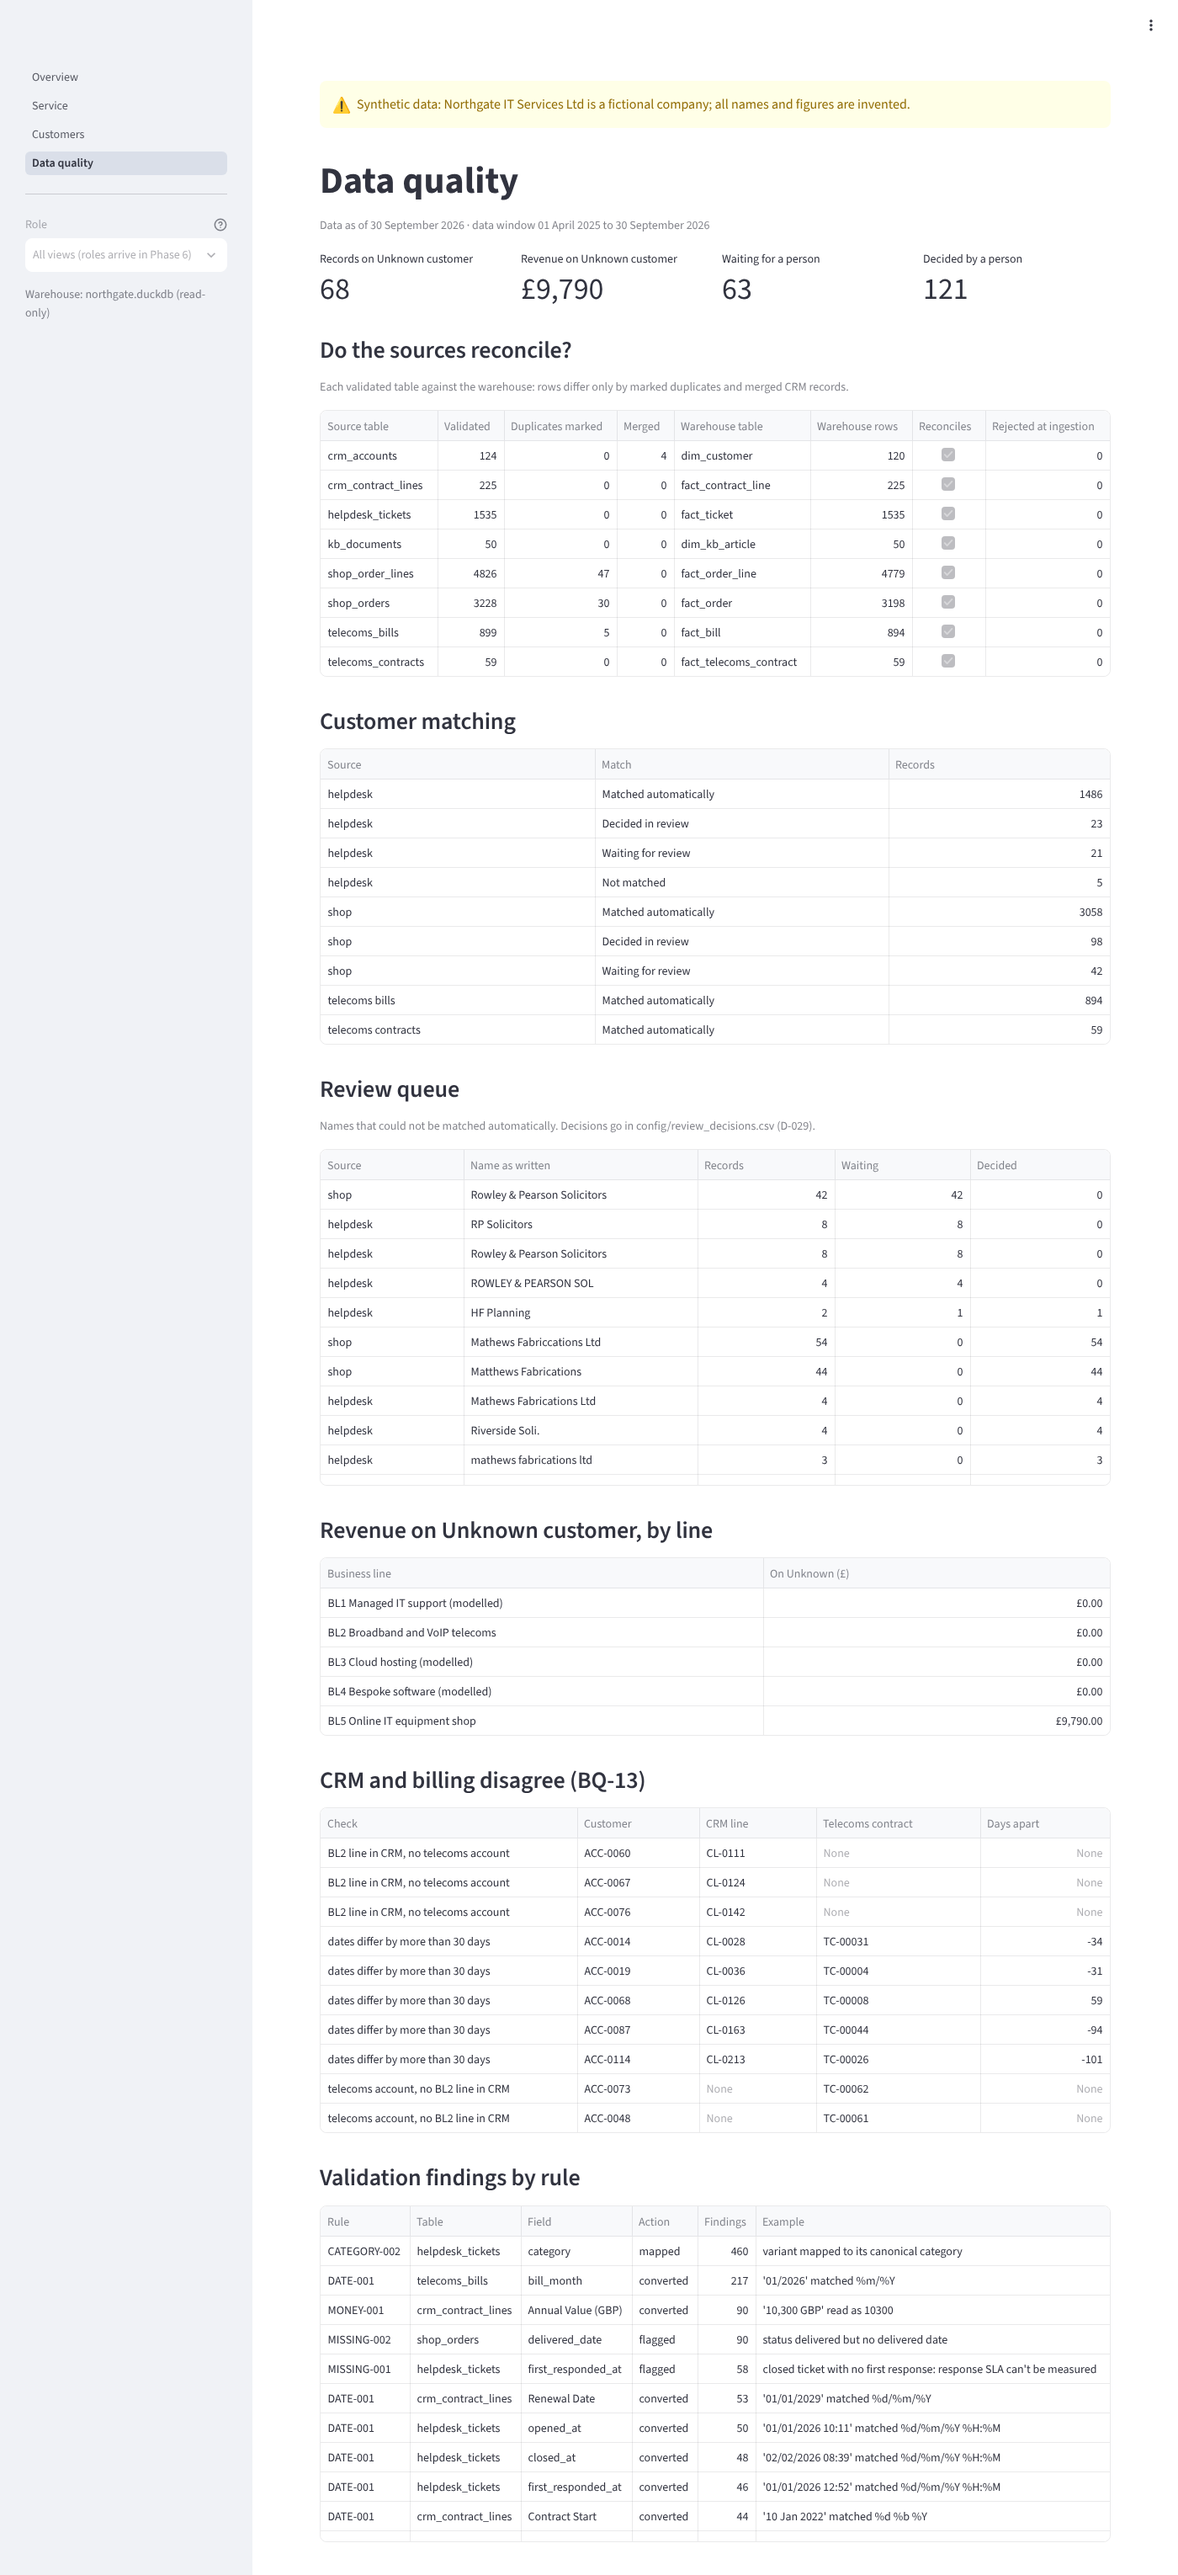
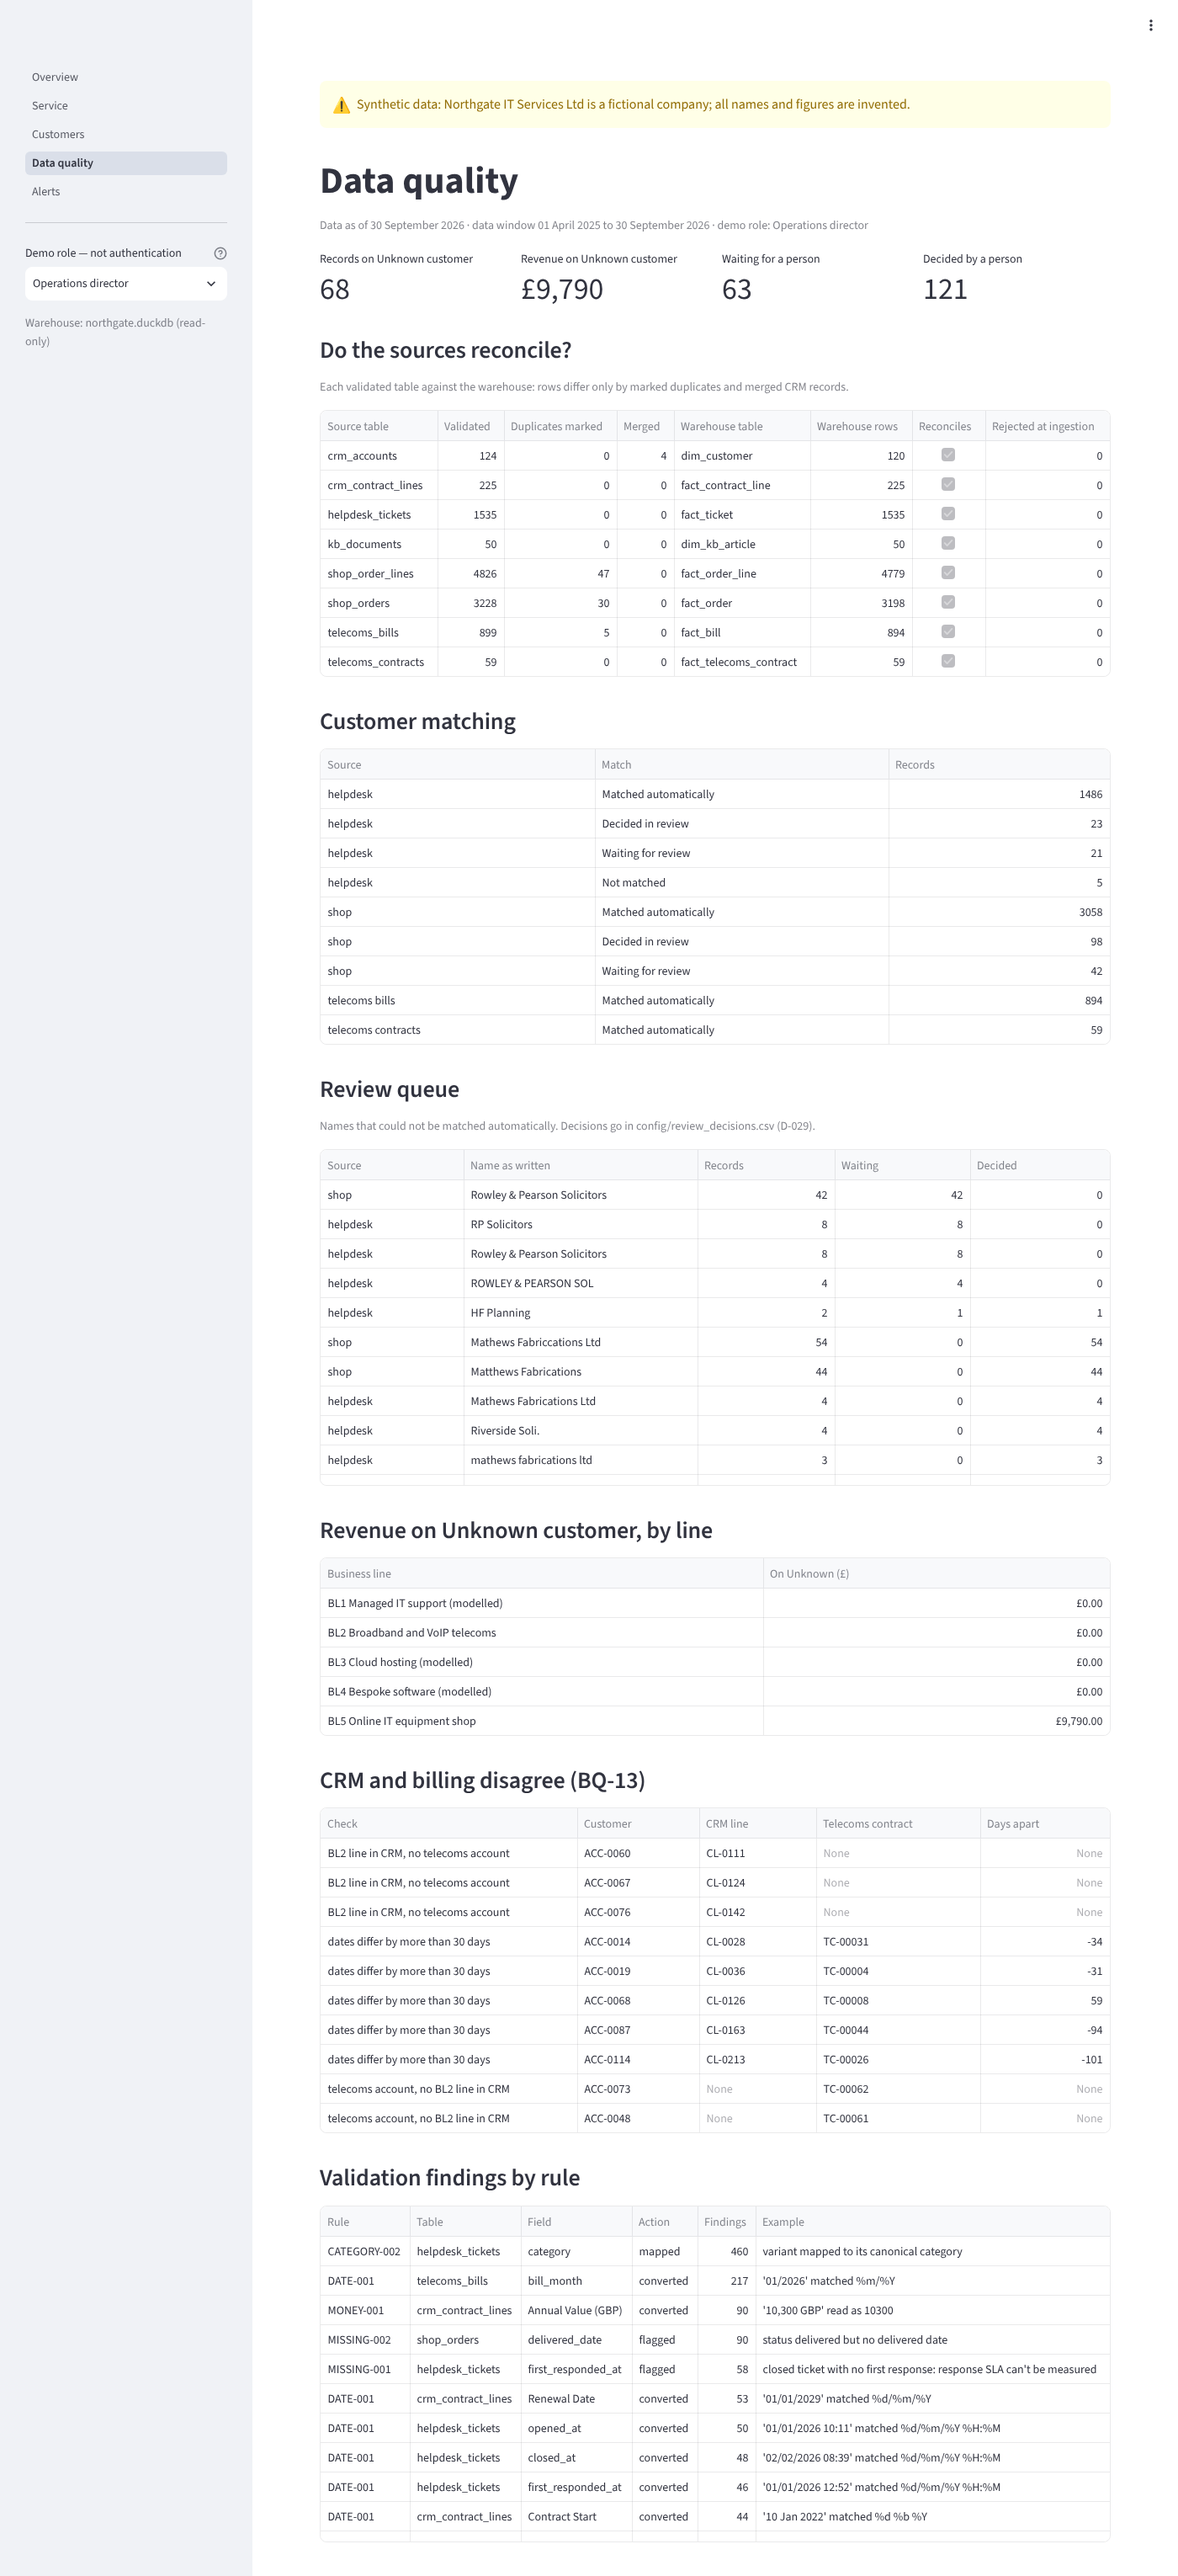
Step 6.6: Phase 6 review: history check clean, blanket data/ ignore, screenshots, summary (D-047)
No .env, data/ file or sk-ant- string in any of the 69 commits. data/
ignored as a whole, with a test. SLA chart was only zoomed (no change).
Screenshots refreshed per role. docs/phase6_summary.md (linked from the
README) with results and ten known limitations; security and privacy
requirements traced in docs/03_requirements.md.

Claude-Session: https://claude.ai/code/session_01REqKK9Vx3D1mCLymLrHFHH

diff --git a/tests/test_docker.py b/tests/test_docker.py
@@ -147,3 +147,13 @@ def test_app_user_has_a_writable_home_and_writes_only_under_data():
                      for p in (ROOT / d).rglob("*.py"))
     # the only write outside data/ in project code is the README table, which now skips when README is absent
     assert code.count('ROOT / "README.md"') == 1 and "if not path.exists():" in (ROOT / "generator" / "run.py").read_text()
+
+
+def test_git_ignores_secrets_and_every_path_under_data():
+    """Step 6.6 pre-publish: .env, any .env.* except the example, and any new folder under data/ are ignored."""
+    import subprocess
+    def ignored(path):
+        return subprocess.run(["git", "check-ignore", "-q", "--no-index", path], cwd=ROOT).returncode == 0
+    for path in (".env", ".env.local", "data/brand_new_folder/x.csv", "data/warehouse/northgate.duckdb", "data/audit/audit.jsonl"):
+        assert ignored(path), path
+    assert not ignored(".env.example")

diff --git a/docs/phase6_summary.md b/docs/phase6_summary.md
@@ -1,0 +1,49 @@
+# Phase 6 summary: masking, roles, audit log and Docker
+
+Prototype for the fictional Northgate IT Services Ltd. All data is synthetic. Decisions D-043 to D-047 in
+`DECISIONS.md` hold the detail; this page is the overview.
+
+## What was built
+
+| Step | What | Where |
+|---|---|---|
+| 6.1 | Personal data in ticket text replaced by `[NAME]`, `[PHONE]`, `[EMAIL]` and `[CUSTOMER]`, using general rules (UK phone formats, email pattern, names after context cues and in email addresses) and the warehouse's own name lists; nothing from the generator | `pipeline/mask/`, table `ticket_text_masked`, view `v_ticket_masked` (D-043) |
+| 6.2 | Decision: masked tickets go to the warehouse, exports and dashboard only; assistant ticket search is future work | `docs/03_requirements.md` BQ-11 (D-043) |
+| 6.3 | Four demo roles (service desk agent, account manager, operations director, data steward) decide the pages, business names, alert rules and assistant tools each sees; the assistant gets roles through a subclass, without editing the frozen code | `config/roles.yaml`, `dashboard/common.py`, `pipeline/roles/` (D-044) |
+| 6.4 | Append-only audit log with a SHA-256 hash chain, a head anchor in `head.txt` after every pipeline run, a 365-day retention report, and random session IDs | `pipeline/audit/`, `python -m pipeline.audit.verify` (D-045) |
+| 6.5 | Docker: a pipeline image and a dashboard-only image, a base pinned by multi-architecture digest, non-root user, named volumes only, least-privilege mounts, health-checked startup order | `Dockerfile`, `docker-compose.yml` (D-046) |
+| 6.6 | Review: full tests, git history check, blanket `data/` ignore, refreshed screenshots, this summary | D-047 |
+
+## Measured results
+
+| What | Result | How it was measured |
+|---|---|---|
+| Masking, held-out half (789 tickets, 302 planted spans) | names 152/152, phones 95/95, emails 55/55; 0 false masks | `eval/masking_eval.py --final`, run once; tuned on the dev half only (D-043) |
+| Masking, independent check by the project author | 0 of 579 planted values in the masked export; placeholder counts equal planted counts | The author's own check, 2026-10-18 |
+| Roles | 31 tests: every role against every page (refused, shown, names) and all 14 assistant tools (offered, refused); operations director requests byte-identical to the frozen assistant | `tests/test_roles.py` (D-044) |
+| Audit log | Edits, deletions, reordering and truncation detected; a full consistent rewrite is not (by design, see limits) | `tests/test_audit.py` (D-045) |
+| Docker on the author's Intel Mac | Same figures as the host (total revenue £4,673,914.13, 68 Unknown rows, 29 alerts, 280 KB sections); dashboard non-root with read-only warehouse; audit chain intact (27 entries); host data untouched | Run of 2026-10-19 (D-046) |
+| Tests | 427 passing | `uv run pytest` |
+| Git history | No `.env`, no file under `data/`, no `sk-ant-` string in any of the 69 commits | 6.6 check (D-047) |
+
+## Screenshots
+
+| Operations director | Service desk agent |
+|---|---|
+| ![Service, operations director](screenshots/service.png) | ![Service, service desk agent](screenshots/service_agent.png) |
+| ![Customers with names](screenshots/customers.png) | ![Alerts, ticket rules only](screenshots/alerts_agent.png) |
+
+The data steward sees only Data quality, with the review queue's names: `screenshots/data_quality_steward.png`.
+
+## Known limitations
+
+1. **Synthetic personal data is easier than real data.** The planted names, phones and emails use a few fixed phrasings and standard formats, with no typos, nicknames, initials or addresses. 100% here does not predict recall on real tickets; real use needs a reviewed sample and probably a trained recogniser (D-043).
+2. **A hint before the held-out masking run.** The answer key's overall QI-07 counts were seen while learning its format, and the mask counts over all tickets matched them before the held-out half was scored (D-043).
+3. **Roles are a demo, not authentication.** Anyone can pick any role in the sidebar. Real access control needs sign-in and server-side enforcement (D-044).
+4. **Restricted roles were not evaluated with held-out questions.** The assistant's 13/14 held-out score applies to the all-tools role (operations director) only (D-044).
+5. **The Alerts page shows all-rule totals in "Recent runs" to every role.** These are counts only, with no records or names, but they are not limited to the role's rules (found in the 6.6 screenshots; not changed).
+6. **The audit log records roles and sessions, not people**, because there is no sign-in. It detects partial edits, not a full rewrite by someone who can write both `audit.jsonl` and `head.txt`; production would use write-once storage (D-045).
+7. **BQ-11 is partly met.** Knowledge-base and data questions are answered; past-ticket search is deferred so the held-out score stays valid (D-043).
+8. **Docker images were not scanned for vulnerabilities**, and the base image digest will age (D-046).
+9. **Docker volumes are readable by anyone who can run `docker` on the machine**, including the warehouse, the answer keys in the `work` volume, and the audit log (D-046).
+10. **Static checks miss runtime problems.** Both Docker fixes (file permissions, a missing README) were found only by running the images on the Mac (D-046).

diff --git a/DECISIONS.md b/DECISIONS.md
@@ -650,3 +650,17 @@ Decided by the project author after D-039. These are general rules, not fixes fo
   - **Host untouched:** the warehouse was still dated 18 Oct 18:58, there was no `data/audit` on the host, and `git status` was clean.
   - **Note:** one SLA chart on the Service page looked clipped in a screenshot, probably a zoom from scrolling (Streamlit charts zoom on scroll). Reset by double-clicking; to be checked in the Phase 6 review.
 
+## D-047: Phase 6 review (step 6.6)
+- **Tests**: 427 passing.
+- **Git history check before publishing**: across all 69 commits on every ref (`main`, the tag `assistant-frozen`; no stashes):
+  - no path matching `.env` or `.env.*` was ever committed, apart from `.env.example`, which never held a value after `ANTHROPIC_API_KEY=`;
+  - no file under `data/` was ever committed;
+  - no commit contains the string `sk-ant-`, and no diff ever added a line with it.
+
+  The search printed only counts and commit IDs. As a check on the method, the same search finds the fake test key `sk-test-` in 22 commits. No history rewrite is needed.
+- **Blanket `data/` ignore**: every existing folder under `data/` was ignored one by one, so a new subfolder would not have been. `data/` is now ignored as a whole, and a test checks that `.env`, `.env.local` and a made-up `data/brand_new_folder/x.csv` are ignored while `.env.example` is not.
+- **SLA chart**: the chart in the author's screenshot showed an axis of 0.82–0.96 with lines running off it. The code sets no axis limits, the plotted values run from 0.643 to 1.0, and a fresh render draws 0.0–1.0 with every line inside. It was a zoom from scrolling (Streamlit charts zoom on scroll); no change was made.
+- **Screenshots** refreshed in `docs/screenshots/`. Five pages as the operations director; Service and Alerts as the service desk agent; Data quality as the data steward. Each page rendered with no exceptions and the right "demo role" caption. The copies on the Mac are 5,770 bytes larger than those made in the workspace, from the transfer; the pixels were checked identical.
+- **Finding, not changed**: the Alerts page's "Recent runs" table shows all-rule totals to every role (counts only, no records or names). Listed as a known limitation.
+- **Summary**: `docs/phase6_summary.md` (linked from the README) lists what was built, the measured results and ten known limitations. These include two added at this review: the Docker images were not scanned for vulnerabilities, and the Docker volumes are readable by anyone who can run `docker` on the machine. `docs/03_requirements.md` has a new section 4 tracing the brief's security and privacy requirements to code and evidence.
+

diff --git a/README.md b/README.md
@@ -108,6 +108,12 @@ Stop it with Ctrl+C. To rebuild everything from the raw files first, start the s
 | **Customers** | **Data quality** |
 | ![Customers](docs/screenshots/customers.png) | ![Data quality](docs/screenshots/data_quality.png) |
 
+Screenshots taken as the operations director. The same pages as other demo roles: `docs/screenshots/service_agent.png`,
+`alerts_agent.png` (service desk agent) and `data_quality_steward.png` (data steward).
+
+**Phase 6 (masking, roles, audit log, Docker): see [docs/phase6_summary.md](docs/phase6_summary.md)** for what was
+built, the measured results and the known limitations.
+
 ## Assistant evaluation (Phase 5)
 
 The assistant (Claude Haiku 5.5 with knowledge-base search and 13 read-only data tools, D-035 to D-037) was scored by `eval/assistant_eval.py` on questions it never saw while being built:
@@ -154,7 +160,7 @@ All data in Docker lives in named volumes (`work`, `warehouse`, `alerts`, `audit
 |---|---|---|---|
 | `config/generator.yaml` | Yes | Every generator setting (seed, volumes, rates) | Hand-written |
 | `docs/`, `DECISIONS.md`, `README.md` | Yes | Business understanding, decisions, this file | Hand-written (this table by `generator.run`) |
-| `dashboard/`, `.streamlit/config.toml`, `docs/screenshots/` | Yes | Streamlit dashboard, its local-only settings, one screenshot per page | Hand-written (D-032) |
+| `dashboard/`, `.streamlit/config.toml`, `docs/screenshots/` | Yes | Streamlit dashboard, its local-only settings, screenshots per page and role | Hand-written (D-032, D-047) |
 | `config/vocabulary.yaml`, `semantic/data_dictionary.yaml`, `semantic/metrics.yaml` | Yes | Ticket-category vocabulary, data dictionary with personal-data flags, metric definitions | Hand-written (D-022) |
 | `generator/`, `shop_api/`, `tests/` | Yes | Code and tests | Hand-written |
 | `knowledge_base/*.md`, `knowledge_base/_meta.yaml` | Yes | 50 KB documents and their ground truth | Hand-written (D-014) |

diff --git a/docs/03_requirements.md b/docs/03_requirements.md
@@ -213,3 +213,18 @@ Filled in as later phases are built. A blank cell after its phase is finished is
 | BQ-14 | 1, 2, 4 | | | | |
 | BQ-15 | 5 | | | | |
 | BQ-16 | 1, 3 | | | | |
+
+## 4. Security and privacy requirements (Phase 6)
+
+What the project brief asked for on secrets, personal data and access, where each is built, and the evidence.
+
+| Requirement (from the brief) | Built in | Evidence | Status |
+|---|---|---|---|
+| API key only in `.env`, git-ignored, never printed or committed | `pipeline/assistant/llm.py`, `.gitignore` | Tests: key read from `.env` only, `.env` ignored, `.env.example` empty; history check of all 69 commits: no `.env`, no `data/`, no `sk-ant-` (6.6, D-047) | Met |
+| Only KB text and aggregated results go to the API; customer IDs, never names | `pipeline/assistant/guard.py`, `pipeline/tools/` | Outgoing-request test over every tool and value (D-037) | Met |
+| Mask personal data in ticket text before it is used anywhere outside the warehouse | `pipeline/mask/`, `ticket_text_masked` | Held-out recall 302/302, no false masks, measured on synthetic data (D-043) | Met, with the synthetic-data caveat |
+| Past tickets in the assistant only after masking | (deferred) | The frozen assistant was evaluated without ticket search (D-042, D-043) | Deferred; BQ-11 partly met |
+| Roles decide who sees what | `config/roles.yaml`, `dashboard/common.py`, `pipeline/roles/` | 31 role tests: every role against every page and tool (D-044) | Met as a demo, not authentication |
+| Record who did what | `pipeline/audit/` | Hash chain, anchor and retention tests; Docker run verified 27 entries intact (D-045, D-046) | Met; roles and sessions, not people |
+| Runs in a container without exposing data or secrets | `Dockerfile`, `docker-compose.yml` | Static tests, plus the run on the author's Intel Mac: non-root, read-only warehouse, no generator in the dashboard, host data untouched (D-046) | Met; images not scanned |
+
